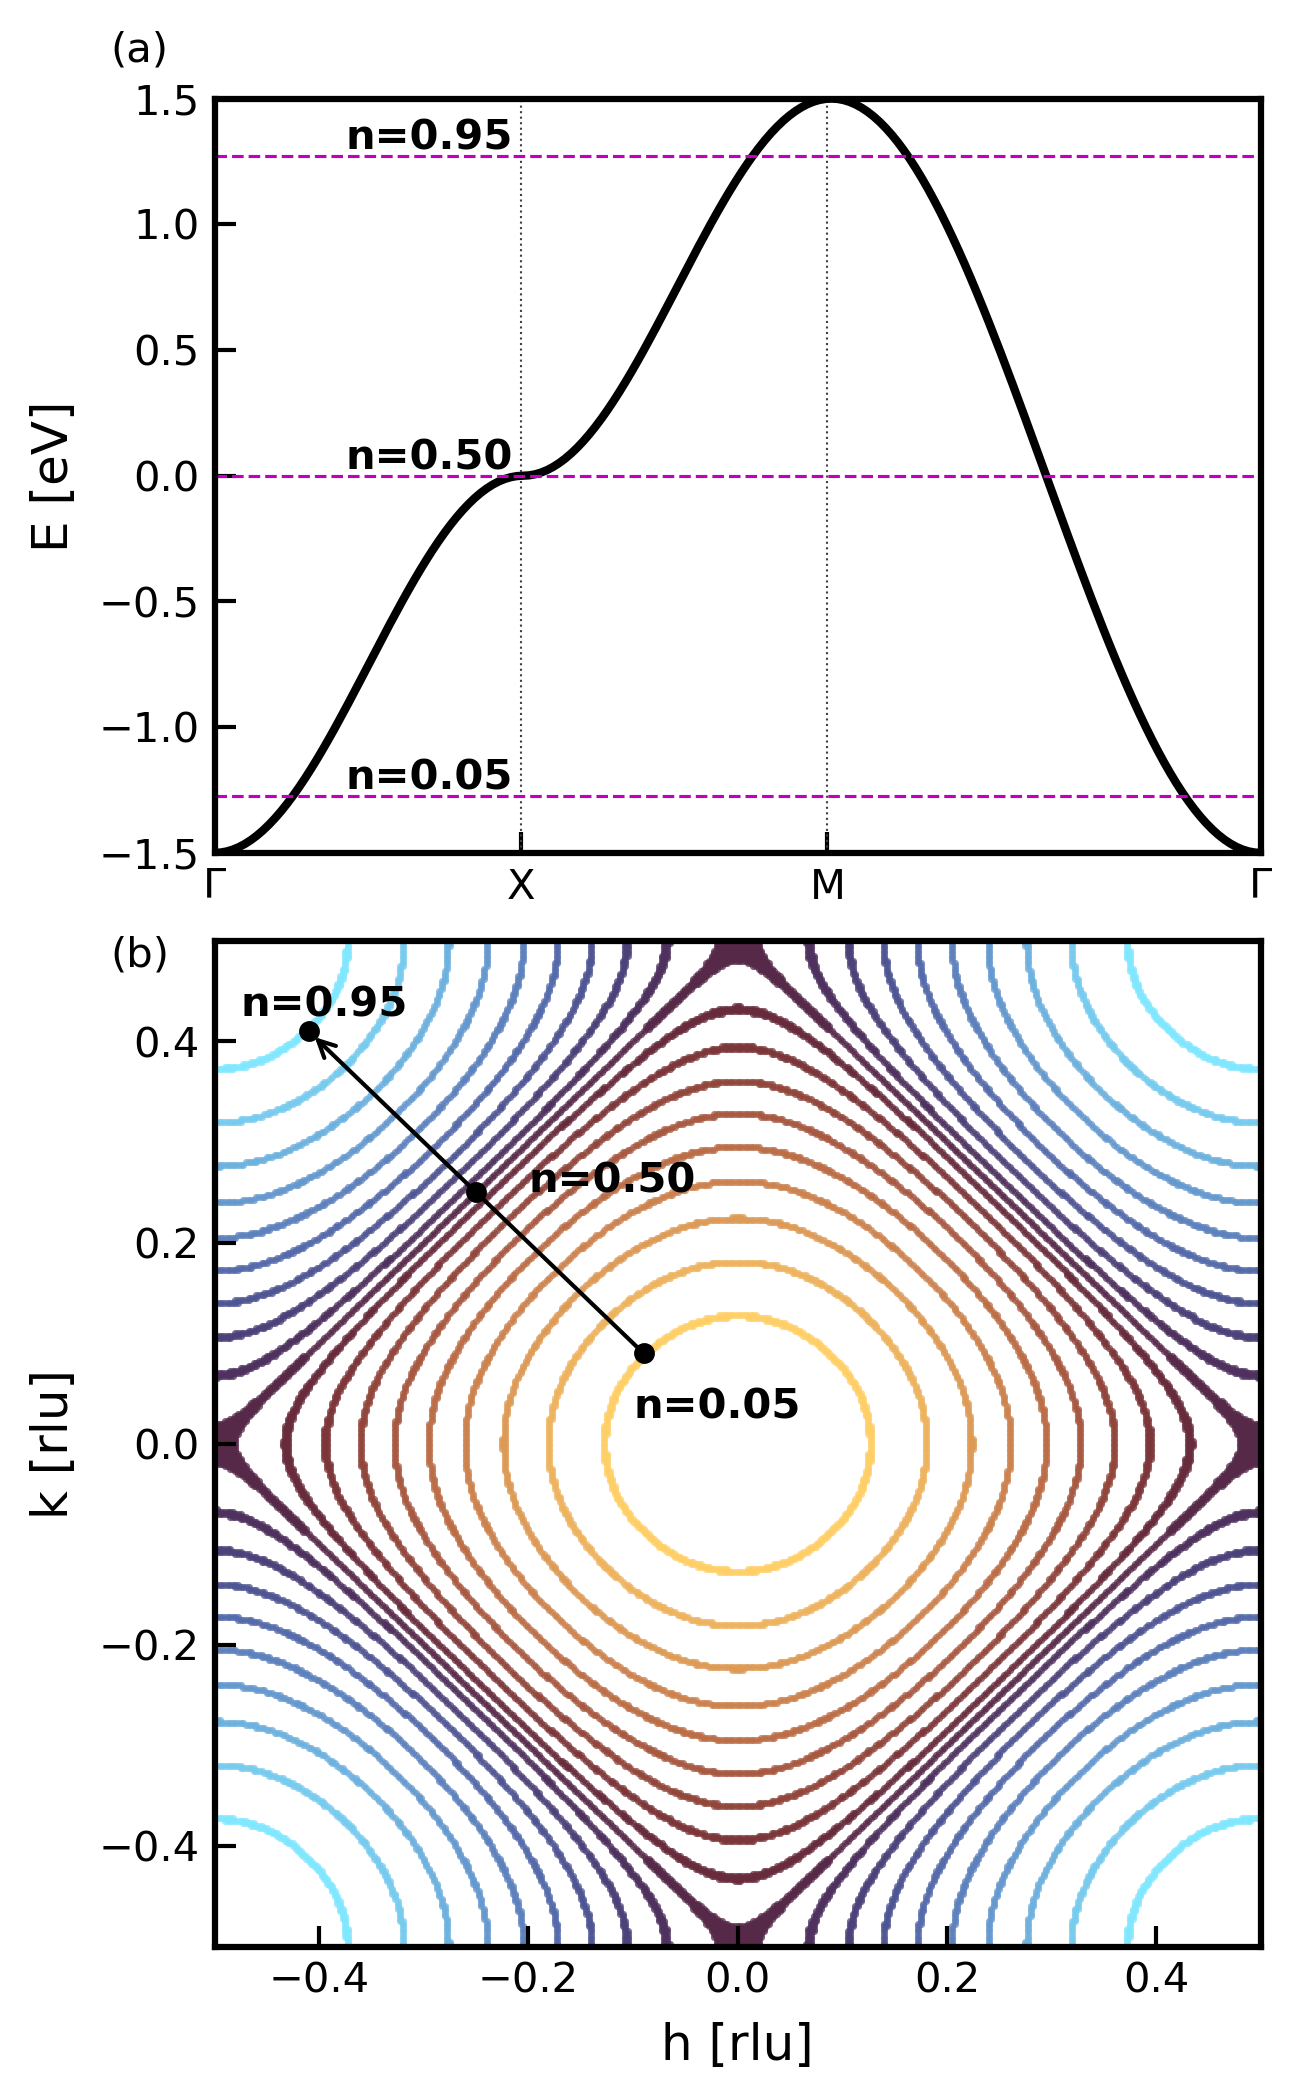
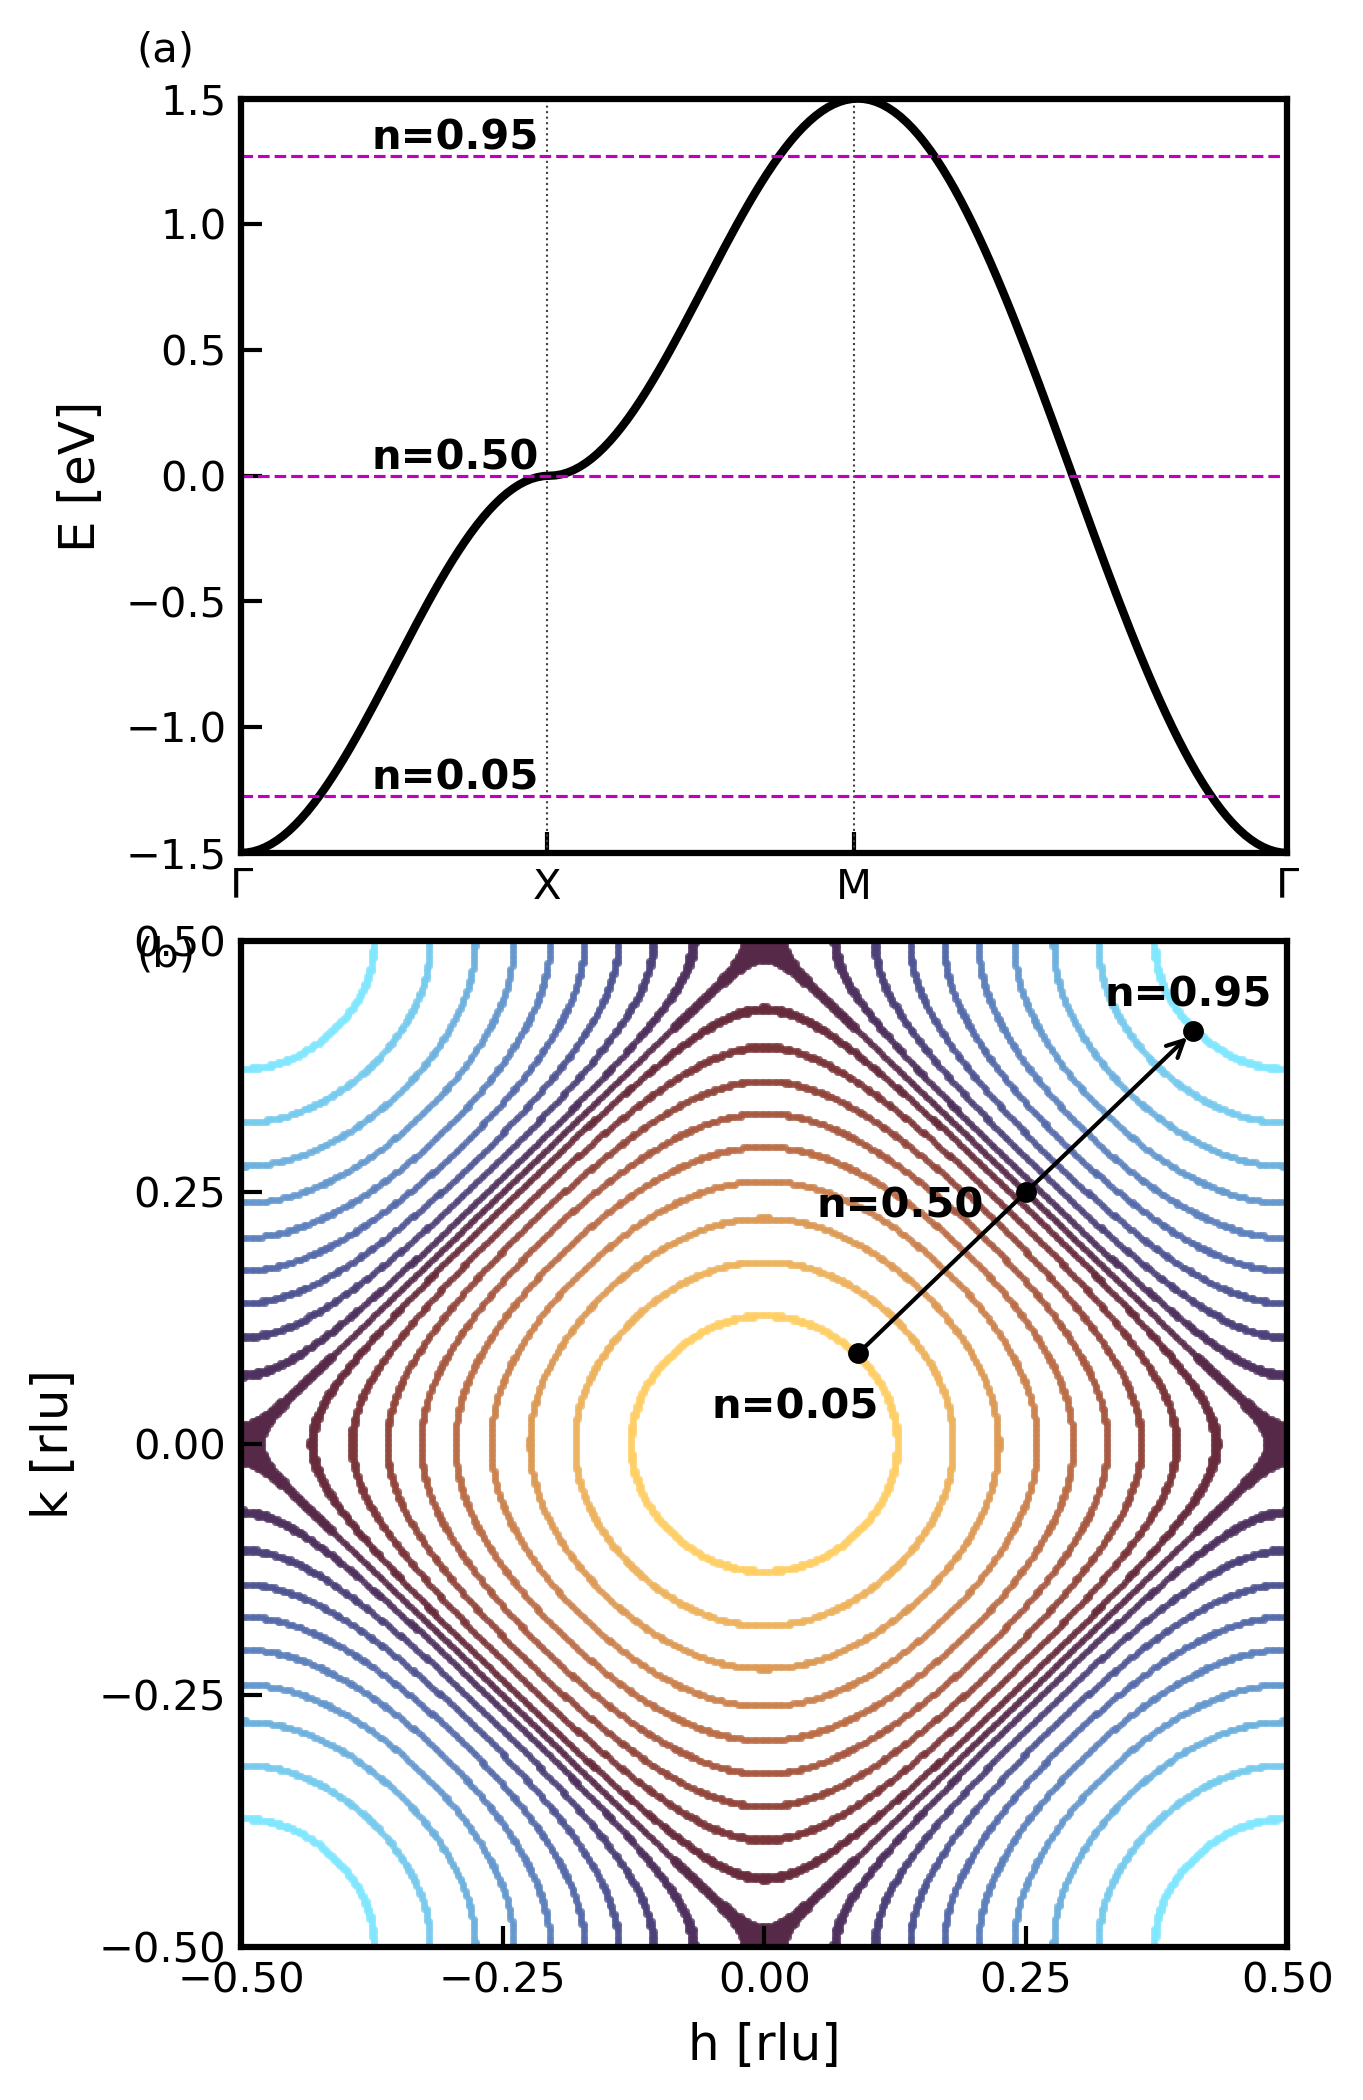
auto commit

diff --git a/paper/prim/fermi_surface/plot_all_fs.py b/paper/prim/fermi_surface/plot_all_fs.py
@@ -71,15 +71,15 @@ for ii, n in enumerate(calcs):
 
 # ax[1].annotate('n=0.1',xycoords='data',textcoords='data',xy=(-0.45,0.45),xytext=(-0.075,0.0),
 #             arrowprops=dict(arrowstyle='-|>',lw=1,color='k'),fontsize=10)
-ax[1].annotate('',xycoords='data',textcoords='data',xy=(-0.41,0.41),xytext=(-0.09,0.09),
+ax[1].annotate('',xycoords='data',textcoords='data',xy=(0.41,0.41),xytext=(0.09,0.09),
             arrowprops=dict(arrowstyle='->',lw=1,color='k'),fontsize=10)
-ax[1].annotate('n=0.05',xycoords='data',xy=(-0.1,0.025),fontsize=10,fontweight='bold')
-ax[1].annotate('n=0.50',xycoords='data',xy=(-0.2,0.25),fontsize=10,fontweight='bold')
-ax[1].annotate('n=0.95',xycoords='data',xy=(-0.475,0.425),fontsize=10,fontweight='bold')
+ax[1].annotate('n=0.05',xycoords='data',xy=(-0.05,0.025),fontsize=10,fontweight='bold')
+ax[1].annotate('n=0.50',xycoords='data',xy=(0.05,0.225),fontsize=10,fontweight='bold')
+ax[1].annotate('n=0.95',xycoords='data',xy=(0.325,0.435),fontsize=10,fontweight='bold')
 
-ax[1].plot(-0.09,0.09,marker='o',ms=4,mec='k',mfc='k')
-ax[1].plot(-0.41,0.41,marker='o',ms=4,mec='k',mfc='k')
-ax[1].plot(-0.25,0.25,marker='o',ms=4,mec='k',mfc='k')
+ax[1].plot(0.09,0.09,marker='o',ms=4,mec='k',mfc='k')
+ax[1].plot(0.41,0.41,marker='o',ms=4,mec='k',mfc='k')
+ax[1].plot(0.25,0.25,marker='o',ms=4,mec='k',mfc='k')
 
 for _ax in ax:
     for axis in ['top','bottom','left','right']:
@@ -97,6 +97,8 @@ ax[0].axis([0,1,-1.5,1.5])
 ax[0].set_ylabel('E [eV]',fontsize=12,labelpad=5)
 
 ax[1].axis([-0.5,0.5,-0.5,0.5])
+ax[1].set_xticks([-0.5,-0.25,0,0.25,0.5])
+ax[1].set_yticks([-0.5,-0.25,0,0.25,0.5])
 ax[1].set_ylabel('k [rlu]',fontsize=12,labelpad=5)
 ax[1].set_xlabel('h [rlu]',fontsize=12,labelpad=5)
 
